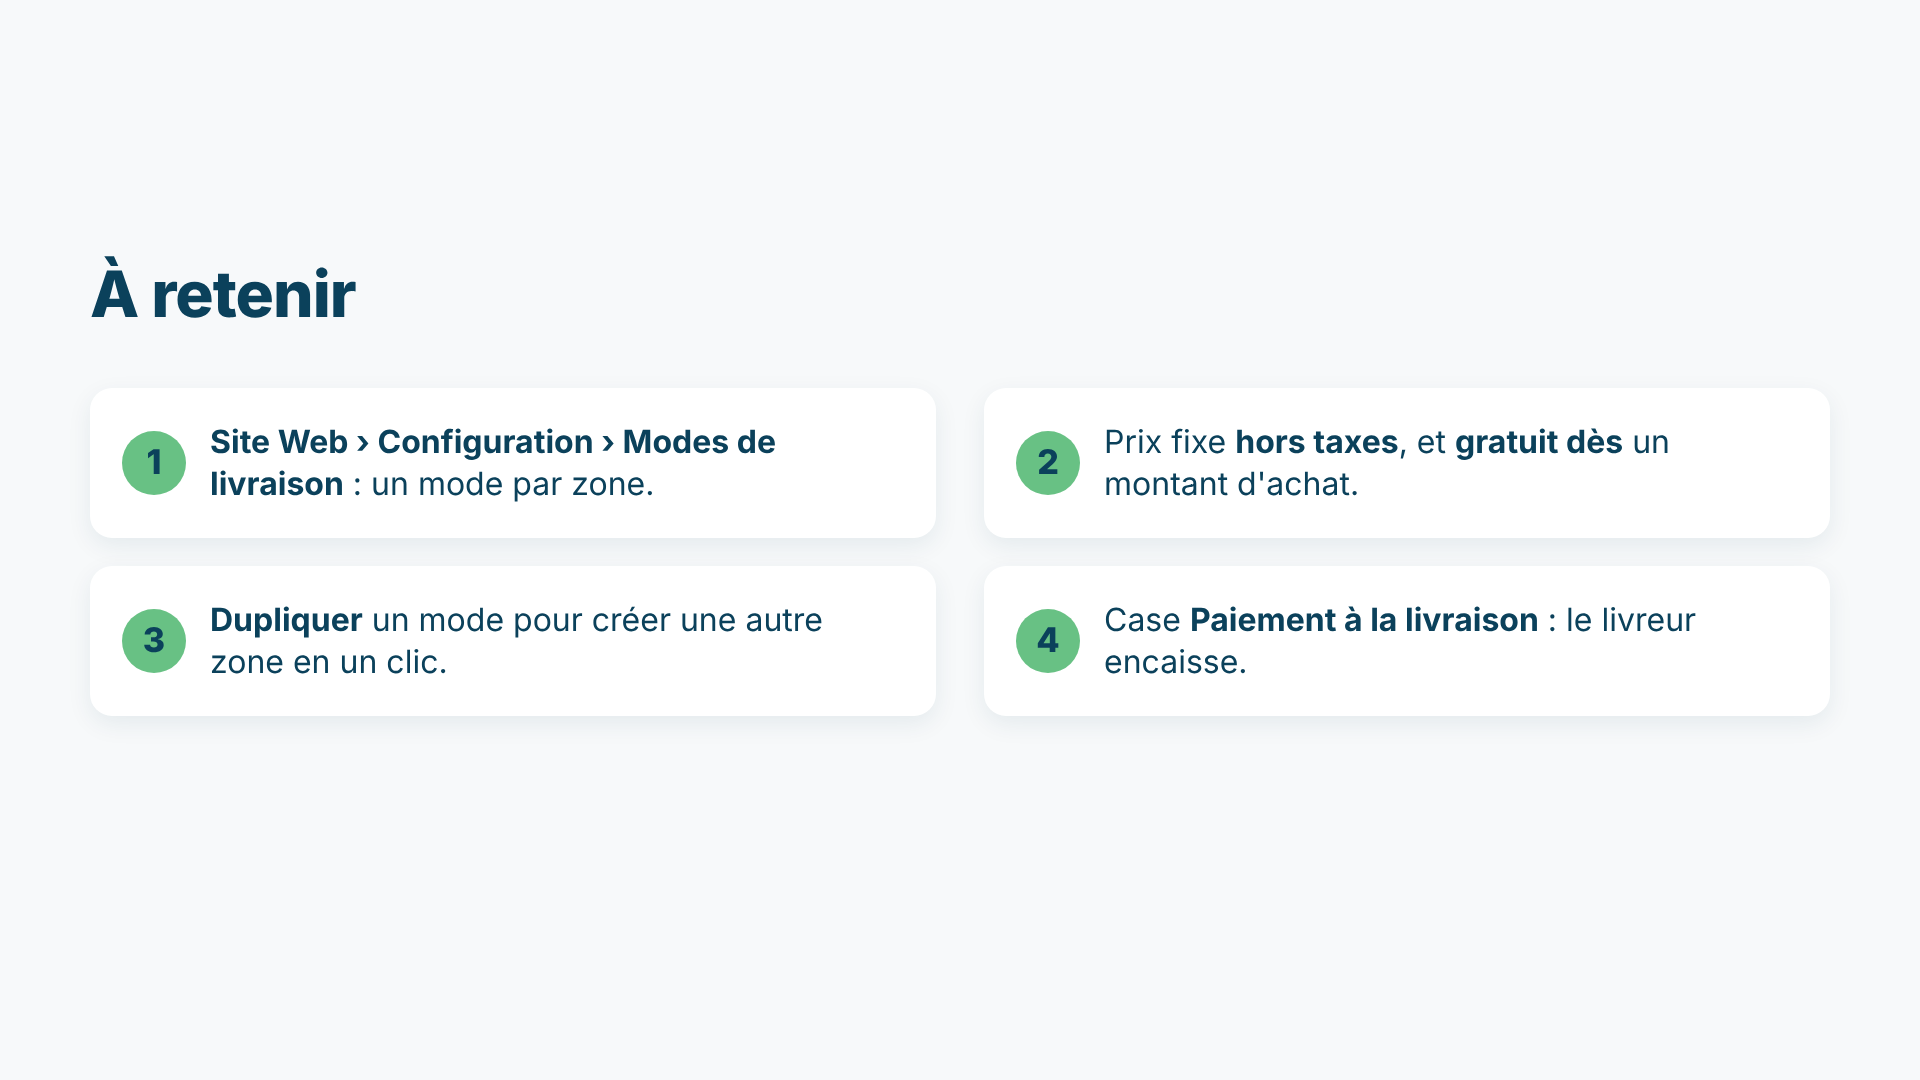
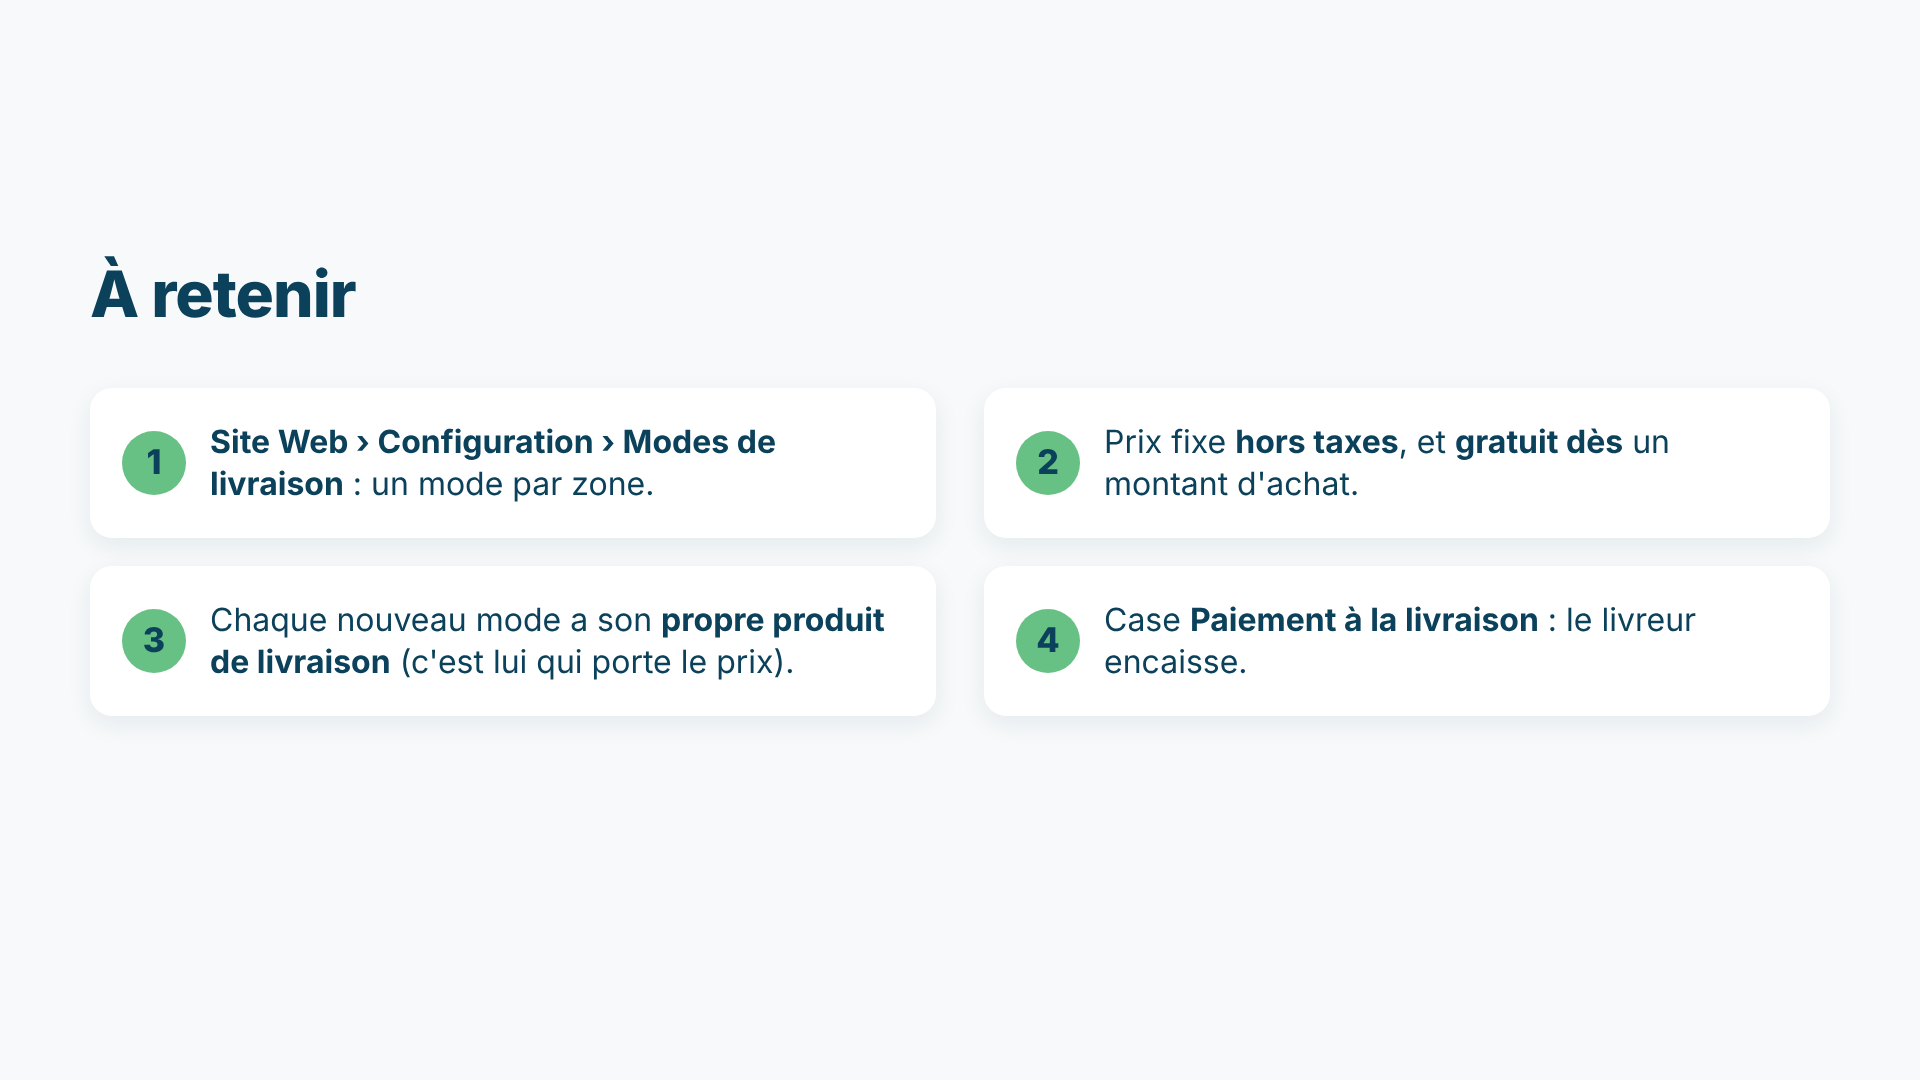
EB-10 : scénario ; retrait à la boutique seulement ; produits de livraison des prises archivés
Claude-Session: https://claude.ai/code/session_01UGUGncgeJJgD4qXndpsEMn

Changed region(s): [[0.0938, 0.55, 0.4688, 0.6417]]

diff --git a/formations/e-business/images/eb-10-recap.html b/formations/e-business/images/eb-10-recap.html
@@ -4,7 +4,7 @@
 <ol class="points">
   <li><span><b>Site Web › Configuration › Modes de livraison</b> : un mode par zone.</span></li>
   <li><span>Prix fixe <b>hors taxes</b>, et <b>gratuit dès</b> un montant d'achat.</span></li>
-  <li><span><b>Dupliquer</b> un mode pour créer une autre zone en un clic.</span></li>
+  <li><span>Chaque nouveau mode a son <b>propre produit de livraison</b> (c'est lui qui porte le prix).</span></li>
   <li><span>Case <b>Paiement à la livraison</b> : le livreur encaisse.</span></li>
 </ol>
 </body></html>

diff --git a/formations/e-business/etat-depart.py b/formations/e-business/etat-depart.py
@@ -680,9 +680,14 @@ def livraisons_eb10_a_refaire():
            'Livraison standard : gratuite, paiement à la livraison autorisé')
     copies = odoo('delivery.carrier', 'search', [('delivery_type', '=', 'fixed'), ('id', 'not in', standard[:1])])
     ecrire('delivery.carrier', copies, {'active': False, 'is_published': False}, f'{len(copies)} mode(s) créé(s) pendant les prises archivé(s)')
+    # le prix d'un mode de livraison est celui de son « produit de livraison » : ceux créés pendant les prises sont archivés
+    produits = odoo('product.product', 'search', [('name', 'in', ['Livraison banlieue']), ('type', '=', 'service')])
+    ecrire('product.product', produits, {'active': False}, f'{len(produits)} produit(s) de livraison des prises archivé(s)')
     retrait = odoo('delivery.carrier', 'search', [('delivery_type', '=', 'in_store')], context=ctx)
-    ecrire('delivery.carrier', retrait[:1], {'name': 'Retrait en magasin', 'is_published': True, 'active': True},
-           'Retrait en magasin : publié')
+    entrepot = odoo('stock.warehouse', 'search', [('code', '=', 'WH'), ('company_id', '=', 1)])
+    ecrire('delivery.carrier', retrait[:1], {'name': 'Retrait en magasin', 'is_published': True, 'active': True,
+                                             'warehouse_ids': [(6, 0, entrepot)]},
+           'Retrait en magasin : publié, à la boutique seulement (pas à l’Entrepôt du Potager)')
 
 
 def eb_10():
